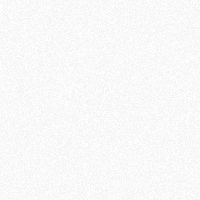
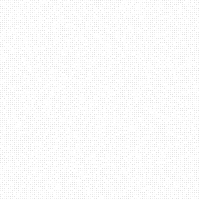
Add cool divider gradient, footer, some other stuff

diff --git a/css/wedding.css b/css/wedding.css
@@ -4,6 +4,7 @@
 
 body {
     font-family: 'Delius', sans-serif;
+    background-color: #fbf7f4;
 }
 
 p {
@@ -19,12 +20,26 @@ a:hover {
     color: #563316;
 }
 
-.bg-noise,
+body,
 .header-content,
-.clock-unit-container,
+.wedding-footer,
 .wedding-section {
     background-repeat: repeat;
     background-image: url("/img/wedding/noise-bg-cover.png");
+}
+
+.clock-unit-container,
+.wedding-rsvp-link {
+    background-repeat: repeat;
+    background-image: url("/img/wedding/noise-bg-cover-lighter.png");
+}
+
+.wedding-footer {
+    padding: 1.5rem 1rem;
+    background-color: #fbf7f4;
+    color: #202020;
+    text-align: center;
+    font-size: 0.85rem;
 }
 
 .header-content {
@@ -32,6 +47,15 @@ a:hover {
     text-align: center;
     background-color: #fbf7f4;
     color: #202020;
+}
+
+.wedding-divider {
+    display: block;
+    margin: 0;
+    padding: 0;
+    width: 100%;
+    height: 2px;
+    background-image: linear-gradient(90deg, #563316, #7f3f1f, #563316);
 }
 
 .header-title {
@@ -72,7 +96,7 @@ a:hover {
 .clock-title {
     font-family: 'Dancing Script', cursive;
     font-size: 4rem;
-    text-shadow: 2px 2px 4px #000000;
+    text-shadow: 2px 2px 2px #000000;
 }
 
 .clock-container {
@@ -86,9 +110,9 @@ a:hover {
     min-width: 8rem;
     padding: 1.75rem;
     margin: 1rem 1rem;
-    background-color: rgba(0, 0, 0, 0.4);
-    border-radius: 10px;
-    text-shadow: 2px 1px 2px #000000;
+    background-color: rgba(0, 0, 0, 0.5);
+    border-radius: 6px;
+    text-shadow: 2px 2px 2px #000000;
 }
 
 .clock-unit-number-content {
@@ -106,7 +130,7 @@ a:hover {
     font-family: 'Abel', sans-serif;
     font-weight: bolder;
     font-size: 1.5rem;
-    text-shadow: 2px 2px 3px #000000;
+    text-shadow: 2px 2px 2px #000000;
     text-transform: uppercase;
 }
 
@@ -118,7 +142,7 @@ a:hover {
     font-size: 1.25rem;
     font-weight: normal;
     border-radius: 20px;
-    box-shadow: 2px 2px 3px #000000;
+    box-shadow: 2px 2px 2px #000000;
     background-color: #ffffff;
     color: #101010;
     text-decoration: none;
@@ -132,7 +156,7 @@ a:hover {
 
 .wedding-section {
     width: 100%;
-    padding: 1.5rem 3rem 3rem 3rem;
+    padding: 1.5rem 3rem 3.25rem 3rem;
     text-align: center;
     background-color: #fbf7f4;
 }
@@ -150,7 +174,7 @@ a:hover {
 .wedding-title {
     margin: 1.3rem 1.5rem;
     font-family: 'Dancing Script', cursive;
-    font-size: 2.75rem;
+    font-size: 2.4rem;
 }
 
 @media (min-width: 768px) {
@@ -159,7 +183,7 @@ a:hover {
         content: "";
         display: inline-block;
         margin: 0 1.75rem;
-        width: 3rem;
+        width: 3.5rem;
         border-top: 2px dotted #593316;
         transform: translateY(-0.75rem);
     }
@@ -178,7 +202,7 @@ a:hover {
     display: flex;
     flex-wrap: wrap;
     justify-content: center;
-    color: #303030;
+    color: #282828;
 }
 
 .wedding-intro-img-col {
@@ -243,7 +267,7 @@ a:hover {
     margin: auto;
     max-width: 100%;
     max-height: 350px;
-    box-shadow: 3px 3px 3px rgba(0, 0, 0, 0.6);
+    box-shadow: 4px 4px 2px rgba(0, 0, 0, 0.15);
     background-color: #fbf7f4;
 }
 
@@ -261,6 +285,6 @@ a:hover {
     display: flex;
     flex-wrap: wrap;
     justify-content: center;
-    font-size: 1.25rem;
+    font-size: 1.15rem;
     color: #202020;
 }

diff --git a/bethandjosh.html b/bethandjosh.html
@@ -10,6 +10,7 @@ scripts: ["/js/wedding/countdown-clock.js"]
     <h2 class="header-subtitle">Save the date — <span class="header-subtitle-em">30.11.2021</span></h2>
     <h2 class="header-subtitle">The Ravenswood, RH19 4HY</h2>
 </section>
+<div class="wedding-divider"></div>
 <section class="clock-area">
     <h1 class="clock-title">You're Invited!</h1>
     <div class="clock-container">
@@ -45,6 +46,7 @@ scripts: ["/js/wedding/countdown-clock.js"]
         &nbsp;RSVP this!
     </a>
 </section>
+<div class="wedding-divider"></div>
 <div class="wedding-main-content">
     <section id="intro" class="wedding-section">
         <div class="wedding-inner-container">
@@ -91,7 +93,7 @@ scripts: ["/js/wedding/countdown-clock.js"]
                         </li>
                         <li>
                             <span class="fa-li fa fa-globe" aria-hidden="true"></span>
-                            <a href="https://www.theravenswood.co.uk/">www.theravenswood.co.uk</a>
+                            <a href="https://www.theravenswood.co.uk/">theravenswood.co.uk</a>
                         </li>
                     </ul>
                     <p>
@@ -154,3 +156,8 @@ scripts: ["/js/wedding/countdown-clock.js"]
         </div>
     </section>
 </div>
+<div class="wedding-divider"></div>
+<footer class="wedding-footer">
+    © Sean Dewar. Hosted on
+    <a href="https://seandewar.github.io">seandewar.github.io</a>.
+</footer>
